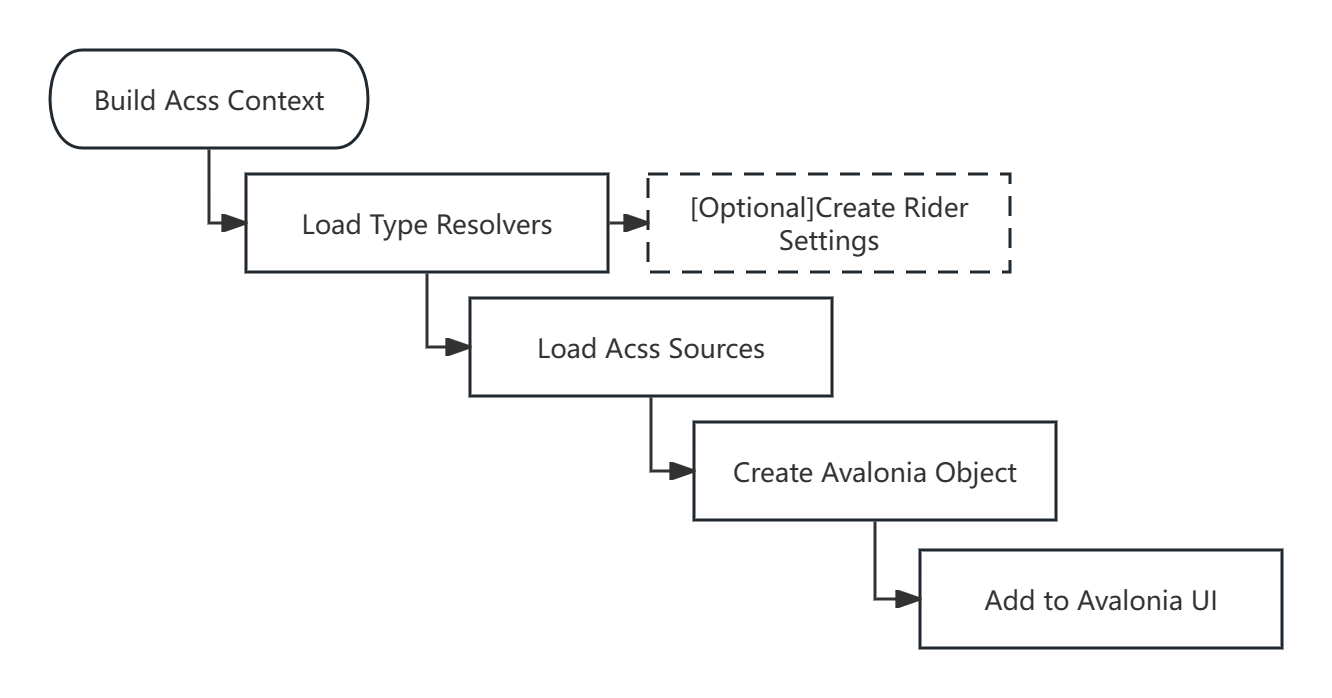
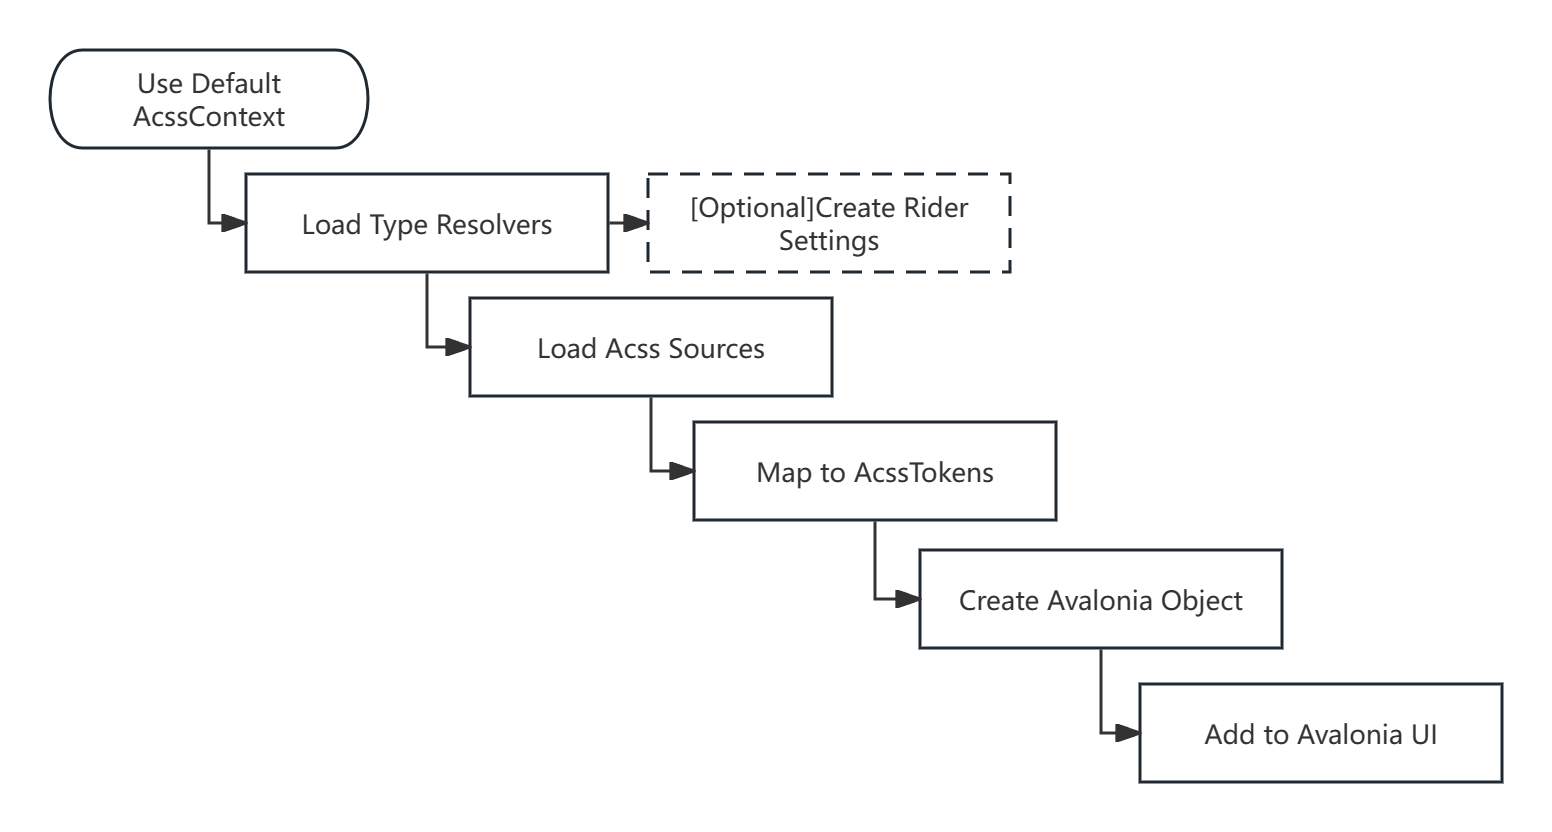
GITBOOK-7: change request with no subject merged in GitBook

diff --git a/docs/documentation/cong-zhe-li-kai-shi/guo-cheng-he-gai-nian.md b/docs/documentation/cong-zhe-li-kai-shi/guo-cheng-he-gai-nian.md
@@ -1,0 +1,35 @@
+# 过程和概念
+
+Acss 的原理比较简单。其运行过程如下图所示。
+
+<figure><img src="../../.gitbook/assets/Process.png" alt=""><figcaption></figcaption></figure>
+
+## AcssContext
+
+使用 Acss 时，需要构建一个 Acss 的上下文环境，我们称之为 AcssContext。这个上下文环境负责提供 Acss 运行过程中所需要的所有服务，包括语法分析服务、语法解释服务、类型解析服务、资源等各类工厂、Acss 加载服务、文件监控服务、Acss 配置服务、Rider 配置服务等。这些服务当中，大部分在 Acss 类库当中内置了。部分服务需要用户参与组建，例如类型解析服务。
+
+同时，Acss 还在运行时提供了所有动态资源的访问功能，包括 Acss 文件、Acss Tokens 等。
+
+## TypeResolver
+
+TypeResolver 是一个类型解析服务，部署在 AcssContext 中。用户在构建 AcssContext 时，需要将自己的想要使用 Acss 的类型注册到 TypeResolver 当中。没有被注册的类型出现在 Acss 代码中时，会无法被解析而跳过，并且会输出调试信息，关于调试请查看[这里](tiao-shi.md)。
+
+{% hint style="info" %}
+Acss 内置了 Avalonia.Controls，Avalonia.Base 两个程序集内所有 AvaloniaObject 子类类型的解析器。
+{% endhint %}
+
+## Acss Source
+
+Acss Source 是 Acss 代码的定义，在 Acss 中表现为一个名为 ISource 的接口。我们目前内置了两种代码源，本地文件（File Source）和内嵌资源（EmbeddedSource）。具体请参考[代码源](../zhu-ti-bang-zhu/ru-he-shi-yong-acss/dai-ma-yuan.md)。
+
+## AcssTokens
+
+当你使用 Acss 加载器加载一个代码源时，代码源首先被读取解析到内存中，形成原始的模型结构 AcssTokens。
+
+{% hint style="success" %}
+注意，Acss 是支持继承和重用的，AcssTokens 也是可重用的。针对一个特定的源，AcssTokens 只会被加载一次。
+{% endhint %}
+
+## Avalonia Object
+
+Acss 加载器加载过程中，AcssTokens 创建后，会继续被解析为具体的 Avalonia 对象，例如 Style、Resource、Animation、其他 Object 等。这些对象会按照一定的规则被加载到 Avalonia 的 UI 当中，具体规则参考[加载范围](../zhu-ti-bang-zhu/ru-he-shi-yong-acss/jia-zai-fan-wei.md)。

diff --git a/docs/SUMMARY.md b/docs/SUMMARY.md
@@ -5,16 +5,17 @@
 * [🎆 欢迎](README.md)
 * [🏌♂ 从这里开始](documentation/cong-zhe-li-kai-shi/README.md)
   * [关于 Acss](documentation/cong-zhe-li-kai-shi/guan-yu-acss.md)
-  * [原理](documentation/cong-zhe-li-kai-shi/yuan-li.md)
+  * [过程和概念](documentation/cong-zhe-li-kai-shi/guo-cheng-he-gai-nian.md)
   * [安全性](documentation/cong-zhe-li-kai-shi/an-quan-xing.md)
   * [性能评估](documentation/cong-zhe-li-kai-shi/xing-neng-ping-gu.md)
   * [源码结构介绍](documentation/cong-zhe-li-kai-shi/yuan-ma-jie-gou-jie-shao.md)
   * [配置开发环境](documentation/cong-zhe-li-kai-shi/pei-zhi-kai-fa-huan-jing.md)
+  * [调试](documentation/cong-zhe-li-kai-shi/tiao-shi.md)
   * [FAQ](documentation/cong-zhe-li-kai-shi/faq.md)
-* [💎 最佳实践](documentation/zui-jia-shi-jian/README.md)
-  * [如何定义良好的控件模板](documentation/zui-jia-shi-jian/ru-he-ding-yi-liang-hao-de-kong-jian-mo-ban.md)
 * [❓ 主题帮助](documentation/zhu-ti-bang-zhu/README.md)
-  * [如何使用 Acss](documentation/zhu-ti-bang-zhu/ru-he-shi-yong-acss.md)
+  * [如何使用 Acss](documentation/zhu-ti-bang-zhu/ru-he-shi-yong-acss/README.md)
+    * [代码源](documentation/zhu-ti-bang-zhu/ru-he-shi-yong-acss/dai-ma-yuan.md)
+    * [加载范围](documentation/zhu-ti-bang-zhu/ru-he-shi-yong-acss/jia-zai-fan-wei.md)
   * [如何使用 Acss.Controls](documentation/zhu-ti-bang-zhu/ru-he-shi-yong-acss.controls.md)
   * [如何使用 Acss.Fluent](documentation/zhu-ti-bang-zhu/ru-he-shi-yong-acss.fluent.md)
   * [如何使用 Acss.Behaviors](documentation/zhu-ti-bang-zhu/ru-he-shi-yong-acss.behaviors.md)
@@ -25,3 +26,5 @@
   * [资源](documentation/acss-yu-fa/zi-yuan.md)
   * [样式](documentation/acss-yu-fa/yang-shi.md)
   * [动画](documentation/acss-yu-fa/dong-hua.md)
+* [💎 最佳实践](documentation/zui-jia-shi-jian/README.md)
+  * [如何定义良好的控件模板](documentation/zui-jia-shi-jian/ru-he-ding-yi-liang-hao-de-kong-jian-mo-ban.md)

diff --git a/docs/documentation/zhu-ti-bang-zhu/ru-he-shi-yong-acss/README.md b/docs/documentation/zhu-ti-bang-zhu/ru-he-shi-yong-acss/README.md
@@ -1,0 +1,57 @@
+# 如何使用 Acss
+
+{% hint style="info" %}
+本页面提供最基本的 Acss 使用示例。其他复杂场景请具体参考本小节内部其他章节。
+{% endhint %}
+
+* 安装依赖库。
+
+```bash
+dotnet add package Nlnet.Avalonia.Css --version 1.0.0-beta.4
+```
+
+* 注册 Acss 和类型解析。这个过程也可以延后到初始化一起进行。
+
+```csharp
+private static AppBuilder BuildAvaloniaApp()
+{
+    return AppBuilder.Configure<App>()
+        ...
+        
+        // Use avalonia css stuff.
+        .UseAcssDefaultContext()
+        
+        // Type resolver for 'Your.Lib'. The GenericTypeResolver<TSink> will load all
+        // types those belong to the assembly who contains the T class.
+        .WithTypeResolverForAcssDefaultContext(new GenericTypeResolver<TSink>())
+        ;
+}
+```
+
+* 初始化 AcssContext。你可以在 Application.Initialize() 函数当中做这些事情。当然其他时机也不受影响。
+
+```csharp
+private class void Initialize()
+{
+    ...
+	
+    // [Optional] Set the current theme and other settings.
+    var cfg = AcssContext.Default.GetService<IAcssConfiguration>();
+    cfg.Theme = "blue";
+    cfg.EnableTransitions = true;
+    
+    // [Optional] Create rider settings for this Acss builder.
+    var riderBuilder = AcssContext.Default.GetService<IRiderSettingsBuilder>();
+    riderBuilder.TryBuildRiderSettingsForAcss(out _, out _, null);
+    
+    // Load acss files to Application.Current.Styles. 
+    // You can keep the acssFile for more operations.
+    var loader = AcssContext.Default.GetService<IAcssLoader>();
+    var acssFile = loader.Load(Application.Current.Styles, new FileSource("Acss/Case.acss"));
+    
+    // Or load acss files from a folder.
+    loader.LoadCollection(Application.Current.Styles, new FileSourceCollection("Acss/"));
+    
+    ...
+}
+```

diff --git a/docs/documentation/cong-zhe-li-kai-shi/pei-zhi-kai-fa-huan-jing.md b/docs/documentation/cong-zhe-li-kai-shi/pei-zhi-kai-fa-huan-jing.md
@@ -9,7 +9,7 @@ Acss 属于解释性语言，支持使用任何文本编辑器对其进行编辑
 ## 使用Rider
 
 {% hint style="warning" %}
-由于开发工作量比较大，目前并未提供 Rider 的 Acss 语言支持插件，后续能够支持的时间目前也不能确定。如果你对此感兴趣并且愿意加入我们的开发工作，非常欢迎通过邮箱 yangqi1990917@@163.com 联系我们。
+由于开发工作量比较大，目前并未提供 Rider 的 Acss 语言支持插件，后续能够支持的时间目前也不能确定。如果你对此感兴趣并且愿意加入我们的开发工作，非常欢迎通过邮箱 yangqi1990917@163.com 联系我们。
 {% endhint %}
 
 目前，对于 Rider，我们提供了简陋的使用方式。我们需要在 IAcssContext 构建完成后，执行以下代码来生成当前环境的 Rider 配置文件。我们会尝试将它自动放置到 Rider 的安装目录下。如果执行失败，请通过参数检查异常情况，并自行处理配置文件的创建。
@@ -25,6 +25,10 @@ riderBuilder.TryBuildRiderSettingsForAcss(out _, out _, null);
 Rider 配置文件的目录一般为：
 
 C:/Users/**{user}**/AppData/Roaming/JetBrains/**Rider{version}**/filetypes/**Acss.xml**
+{% endhint %}
+
+{% hint style="info" %}
+Rider 配置文件依赖于 AcssContext，不同的上下文环境会产生不同的配置，主要体现在注册了不同的类型到类型解析服务，会产生不同的类型代码高亮和提示。
 {% endhint %}
 
 {% hint style="warning" %}

diff --git a/docs/documentation/zhu-ti-bang-zhu/ru-he-shi-yong-acss.fluent.md b/docs/documentation/zhu-ti-bang-zhu/ru-he-shi-yong-acss.fluent.md
@@ -1,2 +1,40 @@
 # 如何使用 Acss.Fluent
 
+* 安装依赖库。
+
+```bash
+dotnet add package Nlnet.Avalonia.Css.Fluent --version 1.0.0-beta.4
+```
+
+* 使用主题。
+
+```xml
+<Application.Styles>
+    <fluent:AcssFluentTheme 
+        AutoExportSourceToLocal="True"
+        PreferLocalPath="{x:Static app:DebugThing.PreferLocalPath}"
+        UseRecommendedPreferSource="True" />
+</Application.Styles>
+```
+
+```csharp
+    public static class DebugThing
+    {
+        public static string? PreferLocalPath { get; set; }
+
+        static DebugThing()
+        {
+#if DEBUG
+            PreferLocalPath = "../../src/Nlnet.Avalonia.Css.Fluent/";
+#else
+            PreferLocalPath = null;
+#endif
+        }
+    }
+```
+
+## AcssFluentTheme
+
+AcssFluentTheme 有以下属性。
+
+<table><thead><tr><th width="303.3333333333333">属性</th><th>描述</th></tr></thead><tbody><tr><td>AutoExportSourceToLocal</td><td><p>是否自动导出到本地。当设置了优先源时生效。</p><p>生效后会在初始化阶段尝试导出代码资源到本地。</p><p>如果文件已经存在则跳过。</p></td></tr><tr><td>PreferLocalPath</td><td>优先源的本地路径。设置后会提供该路径的优先源。</td></tr><tr><td>UseRecommendedPreferSource</td><td>使用推荐的优先源。其本地路径为嵌入的资源的绝对路径作为相对路径，相对于当前程序目录的路径。</td></tr></tbody></table>

diff --git a/docs/documentation/zhu-ti-bang-zhu/ru-he-shi-yong-acss.controls.md b/docs/documentation/zhu-ti-bang-zhu/ru-he-shi-yong-acss.controls.md
@@ -1,2 +1,40 @@
 # 如何使用 Acss.Controls
 
+* 安装依赖库。
+
+```bash
+dotnet add package Nlnet.Avalonia.Css.Controls --version 1.0.0-beta.4
+```
+
+* 引用资源和样式。
+
+```xml
+<Styles.Resources>
+    <ResourceDictionary>
+        <ResourceDictionary.MergedDictionaries>
+            <ResourceInclude Source="avares://Nlnet.Avalonia.Css.Controls/Assets/Themes.Acss.axaml" />
+        </ResourceDictionary.MergedDictionaries>
+    </ResourceDictionary>
+</Styles.Resources>
+
+<StyleInclude Source="avares://Nlnet.Avalonia.Css.Controls/Assets/Styles.Acss.axaml" />
+```
+
+* 可选扩展。
+  * TemplatedControlExtension 使用后，会对所有 ControlTemplate 内部的控件加上 `:is-part` 伪类。
+  * SelectionDetailExtension 使用后，会对所有 SelectingItemsControl 对象加上切换选中项的具体状态伪类，包括&#x20;
+    * `:sel-detail-leave-smaller`
+    * `:sel-detail-leave-lager`
+    * `:sel-detail-enter-lager`
+    * `:sel-detail-enter-lager`
+
+```csharp
+TemplatedControlExtension.Use();
+SelectionDetailExtension.Use();
+```
+
+* 使用 Acss 定义自己的样式库。&#x20;
+
+{% hint style="info" %}
+建议：自定义样式库中加上主题对象，参考 Nlnet.Avalonia.Css.Fluent 中的 AcssFluentTheme。
+{% endhint %}

diff --git a/docs/documentation/cong-zhe-li-kai-shi/tiao-shi.md b/docs/documentation/cong-zhe-li-kai-shi/tiao-shi.md
@@ -1,0 +1,15 @@
+# 调试
+
+我们拟提供比较方便的调试功能，包括调试信息和调试工具。不过目前仍在计划当中。
+
+## Trace
+
+在 v1.0.0-beta.4 版本当中，我们支持了输出关键的 Trace 信息。所有信息都包含关键字 "**Nlnet.Avalonia.Css**"。当前输出了包括类型映射信息、资源类型工厂信息、代码源加载信息等。
+
+{% hint style="success" %}
+如果你对当前输出的信息有任何看法或者建议，欢迎在仓库当中给我们[提出](https://github.com/liwuqingxin/Avalonia.Css/issues)。
+{% endhint %}
+
+## 调试工具
+
+计划中...

diff --git a/docs/README.md b/docs/README.md
@@ -6,6 +6,12 @@ description: 欢迎使用 Avalonia Css 使用文档。
 
 <figure><img src=".gitbook/assets/Acss.svg" alt=""><figcaption></figcaption></figure>
 
+> Acss Version：1.0.0-beta.4
+>
+> Avalonia Version：11.0.0
+
+Avalonia Css，简称 Acss。它是一个 Avalonia UI 框架的扩展功能库，提供和结构分离的样式编写功能。
+
 {% hint style="info" %}
 关于 Avalonia，请查看[这里](./)。
 {% endhint %}

diff --git a/docs/documentation/cong-zhe-li-kai-shi/guan-yu-acss.md b/docs/documentation/cong-zhe-li-kai-shi/guan-yu-acss.md
@@ -1,6 +1,6 @@
 # 关于 Acss
 
-## Avalonia Css
+## Acss
 
 Avalonia Css 不遵循 CSS（Cascading Style Sheets）标准。它是用来分离 Avalonia UI 的结构和样式的。因为概念和语法上和 CSS 类似，因此我们仍然借用这个名字，将其命名为 Avalonia Css，或者 Acss。
 

diff --git a/docs/documentation/zhu-ti-bang-zhu/ru-he-shi-yong-acss/jia-zai-fan-wei.md b/docs/documentation/zhu-ti-bang-zhu/ru-he-shi-yong-acss/jia-zai-fan-wei.md
@@ -1,0 +1,2 @@
+# 加载范围
+

diff --git a/docs/documentation/zhu-ti-bang-zhu/ru-he-shi-yong-acss/dai-ma-yuan.md b/docs/documentation/zhu-ti-bang-zhu/ru-he-shi-yong-acss/dai-ma-yuan.md
@@ -1,0 +1,2 @@
+# 代码源
+
